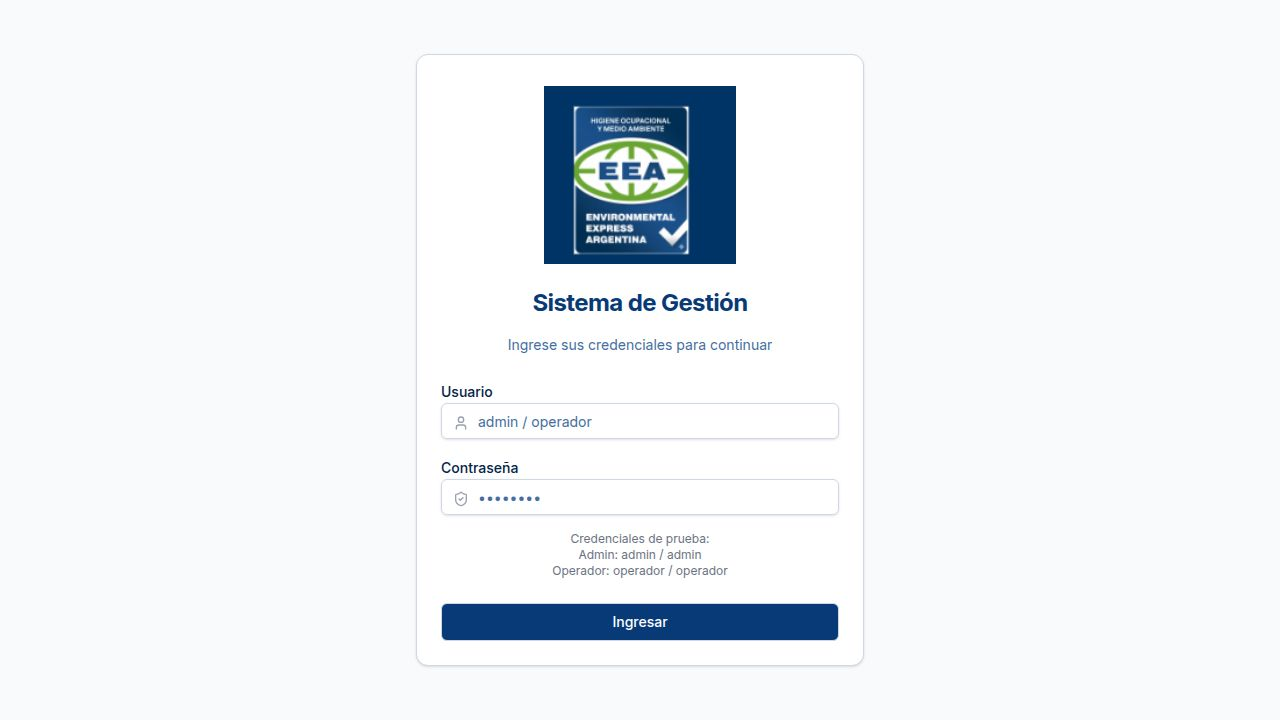
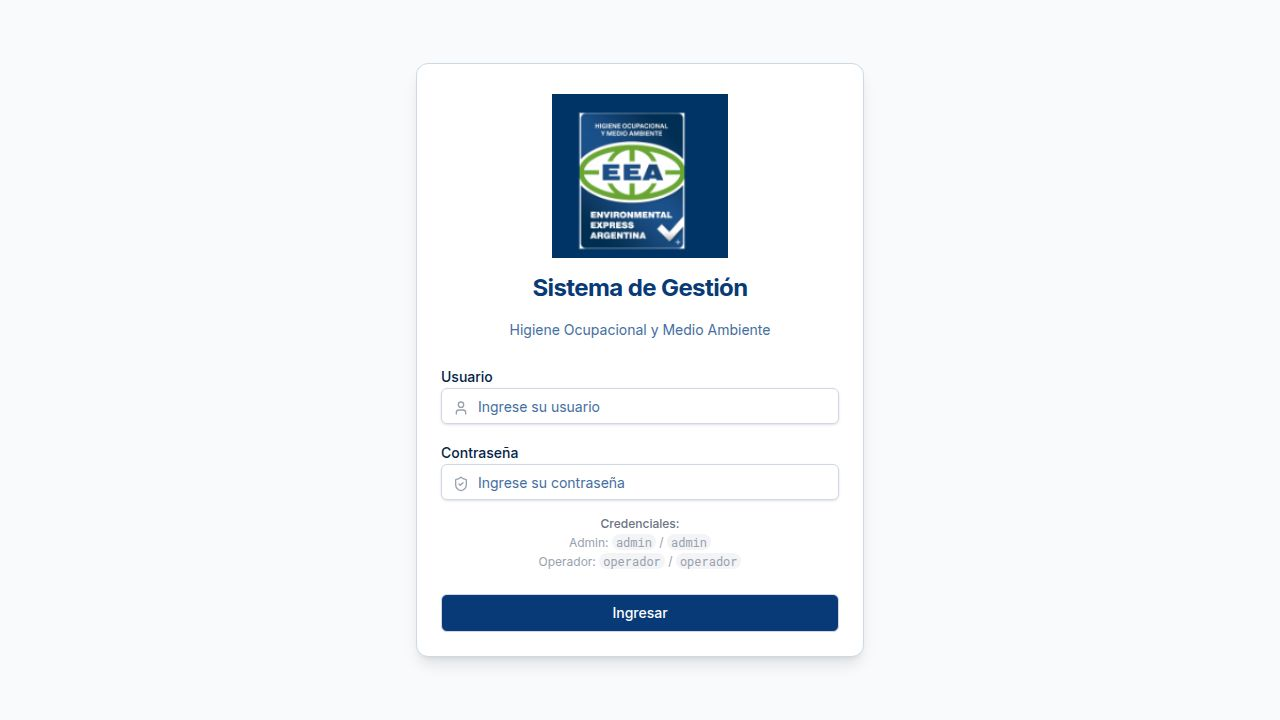
Improve login process and user experience for better accessibility
Refactor login component to fix authentication race condition, normalize user input, add loading indicators, and improve placeholder text for clarity.

Replit-Commit-Author: Agent
Replit-Commit-Session-Id: d863fd6b-13e3-4894-8c73-cecb317feb67
Replit-Commit-Checkpoint-Type: full_checkpoint
Replit-Commit-Event-Id: 309c1eca-ae49-4959-b808-2e737c6ea86f
Replit-Commit-Screenshot-Url: https://storage.googleapis.com/screenshot-production-us-central1/a204020a-6f89-41d9-a4e3-866004e7eeac/d863fd6b-13e3-4894-8c73-cecb317feb67/6K3HeUa
Replit-Helium-Checkpoint-Created: true

Changed region(s): [[0.375, 0.1222, 0.625, 0.4889], [0.3438, 0.825, 0.6562, 0.9472], [0.3438, 0.5194, 0.5938, 0.7944]]

diff --git a/client/src/pages/login.tsx b/client/src/pages/login.tsx
@@ -1,31 +1,44 @@
-import { useState } from "react";
+import { useState, useEffect } from "react";
 import { useAuth, Role } from "@/lib/auth";
 import { useLocation } from "wouter";
 import { Button } from "@/components/ui/button";
 import { Input } from "@/components/ui/input";
 import { Label } from "@/components/ui/label";
 import { Card, CardContent, CardDescription, CardFooter, CardHeader, CardTitle } from "@/components/ui/card";
-import { ShieldCheck, User } from "lucide-react";
+import { ShieldCheck, User, Loader2 } from "lucide-react";
 import logoUrl from "@assets/image_1773940561975.png";
+
+const USERS: Record<string, { password: string; role: Role }> = {
+  admin: { password: "admin", role: "admin" },
+  operador: { password: "operador", role: "operator" },
+};
 
 export default function Login() {
   const [username, setUsername] = useState("");
   const [password, setPassword] = useState("");
   const [error, setError] = useState("");
+  const [loading, setLoading] = useState(false);
   const login = useAuth((state) => state.login);
+  const user = useAuth((state) => state.user);
   const [, setLocation] = useLocation();
+
+  useEffect(() => {
+    if (user) {
+      setLocation("/");
+    }
+  }, [user, setLocation]);
 
   const handleLogin = (e: React.FormEvent) => {
     e.preventDefault();
     setError("");
 
-    // Mock authentication logic
-    if (username === "admin" && password === "admin") {
-      login("admin", "admin");
-      setLocation("/");
-    } else if (username === "operador" && password === "operador") {
-      login("operador", "operator");
-      setLocation("/");
+    const trimmedUser = username.trim().toLowerCase();
+    const trimmedPass = password.trim();
+
+    const match = USERS[trimmedUser];
+    if (match && match.password === trimmedPass) {
+      setLoading(true);
+      login(trimmedUser, match.role);
     } else {
       setError("Usuario o contraseña incorrectos");
     }
@@ -33,14 +46,14 @@ export default function Login() {
 
   return (
     <div className="min-h-screen bg-gray-50 flex items-center justify-center p-4">
-      <Card className="w-full max-w-md">
+      <Card className="w-full max-w-md shadow-lg">
         <CardHeader className="space-y-4 flex flex-col items-center text-center">
-          <div className="w-48 h-48 mb-4">
-            <img src={logoUrl} alt="Logo" className="w-full h-full object-contain" />
+          <div className="w-44 h-44 mb-2">
+            <img src={logoUrl} alt="Logo EEA" className="w-full h-full object-contain" />
           </div>
           <CardTitle className="text-2xl font-bold text-primary">Sistema de Gestión</CardTitle>
           <CardDescription>
-            Ingrese sus credenciales para continuar
+            Higiene Ocupacional y Medio Ambiente
           </CardDescription>
         </CardHeader>
         <form onSubmit={handleLogin}>
@@ -52,11 +65,13 @@ export default function Login() {
                 <Input
                   id="username"
                   type="text"
-                  placeholder="admin / operador"
+                  autoComplete="username"
+                  placeholder="Ingrese su usuario"
                   className="pl-9"
                   value={username}
                   onChange={(e) => setUsername(e.target.value)}
                   required
+                  disabled={loading}
                 />
               </div>
             </div>
@@ -67,28 +82,37 @@ export default function Login() {
                 <Input
                   id="password"
                   type="password"
-                  placeholder="••••••••"
+                  autoComplete="current-password"
+                  placeholder="Ingrese su contraseña"
                   className="pl-9"
                   value={password}
                   onChange={(e) => setPassword(e.target.value)}
                   required
+                  disabled={loading}
                 />
               </div>
             </div>
             {error && (
-              <div className="text-sm text-red-500 font-medium text-center bg-red-50 p-2 rounded">
+              <div className="text-sm text-red-600 font-medium text-center bg-red-50 border border-red-200 p-3 rounded-md">
                 {error}
               </div>
             )}
-            <div className="text-xs text-center text-gray-500 mt-4">
-              <p>Credenciales de prueba:</p>
-              <p>Admin: admin / admin</p>
-              <p>Operador: operador / operador</p>
+            <div className="text-xs text-center text-gray-400 mt-2 space-y-0.5">
+              <p className="font-medium text-gray-500">Credenciales:</p>
+              <p>Admin: <span className="font-mono bg-gray-100 px-1 rounded">admin</span> / <span className="font-mono bg-gray-100 px-1 rounded">admin</span></p>
+              <p>Operador: <span className="font-mono bg-gray-100 px-1 rounded">operador</span> / <span className="font-mono bg-gray-100 px-1 rounded">operador</span></p>
             </div>
           </CardContent>
           <CardFooter>
-            <Button type="submit" className="w-full">
-              Ingresar
+            <Button type="submit" className="w-full" disabled={loading}>
+              {loading ? (
+                <>
+                  <Loader2 className="mr-2 h-4 w-4 animate-spin" />
+                  Ingresando...
+                </>
+              ) : (
+                "Ingresar"
+              )}
             </Button>
           </CardFooter>
         </form>
